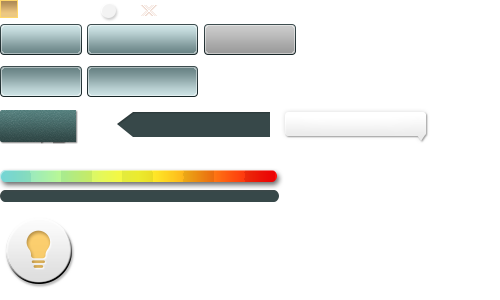
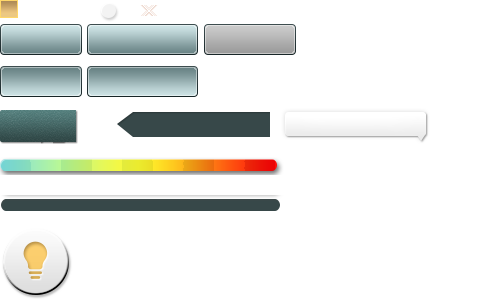
update style

Changed region(s): [[0.0, 0.51, 0.57, 0.72], [0.0, 0.75, 0.15, 1.0]]

diff --git a/frontend/src/css/lottery.less b/frontend/src/css/lottery.less
@@ -19,7 +19,7 @@
 	height: 32px;
 	line-height: 28px;
 	background: url('@{imgPath}/bg/icons.png') no-repeat 0 -23px;
-	font-size: 13px;
+	font-size: 12px;
 	color: #313c3e;
 	text-shadow: 0 1px 2px rgba(255, 255, 255, .25);
 	background: url('@{imgPath}/bg/icons.png') no-repeat;
@@ -46,6 +46,7 @@
 	background-position: -87px -24px;
 	width: 112px;
 	height: 31px;
+	margin: 8px 0 10px;
 }
 .btn-server {
 	display: inline-block;
@@ -55,6 +56,31 @@
 	width: 82px;
 	height: 31px;
 	margin: 10px 0;
+}
+
+/* 左箭头背景 */
+.box-left-arrow {
+	height: 25px;
+	line-height: 25px;
+
+	.box-icon {
+		float: left;
+		background: url('@{imgPath}/bg/icons.png') -117px -112px;
+		width: 16px;
+		height: 25px;
+	}
+	.box-body {
+		float: left;
+		padding: 0 10px 0 5px;
+		.gray-bg();
+	}
+}
+
+/* 深色背景*/
+.gray-bg() {
+	background: #374849;
+	box-shadow:  0px 2px 0px rgba(45, 59, 60, .6) inset;
+	border-bottom: 1px solid rgba(255, 255, 255, .3);
 }
 /*==========================================*/
 .lottery-wrap {
@@ -153,10 +179,11 @@
 				.btn-close {
 					position: absolute;
 					right: 5px;
-					top: px;
+					top: 5px;
 					width: 15px;
 					height: 15px;
 					background: url("@{imgPath}/bg/icons.png") no-repeat -142px -3px;
+					cursor: pointer;
 				}
 			}
 		}
@@ -240,21 +267,51 @@
 			height: 362px;
 		}
 		.collect-box{
-			.collect-table {
-				margin: 0 auto;
-				border-collapse: separate;
-				border-spacing: 8px;
-				*border-collapse: expression('separate', cellSpacing = '8px');
-				td {
-					width: 51px; height: 51px;
+			position: relative;
+
+			.cover {
+				position: absolute;
+				top: 0;
+				left: 0;
+				width: 100%;
+				height: 100%;
+				background: #ffffff;
+				border-radius: 5px;
+				filter:alpha(opacity=50);
+				opacity: 0.5;
+				-moz-opacity:0.5;
+				border-bottom: 1px solid rgba(0, 0, 0, .35);
+				box-shadow: 2px 2px 2px rgba(0, 0, 0, .08), 2px 2px 2px rgba(255, 255, 255, .15) inset;
+			}
+			.collect-list {
+				.gray-bg();
+				position: relative;
+				margin: 0 20px;
+				padding: 10px 0 2px 10px;
+				border-radius: 5px;
+				li {
+					display: inline-block;
+					*display: inline;
+					*zoom: 1;
+
+					width: 50px;
+					height: 50px;
+
+					margin: 0 7px 5px 0;
+
+					background-color:#fff;
 					filter:alpha(opacity=40);
 					opacity: 0.4;
 					-moz-opacity:0.4;
-					background-color:#fff;
 				}
 			}
 			.context-info {
 				padding: 25px 0 0 15px;
+			}
+			.box-left-arrow {
+				position: absolute;
+				top: 20px;
+				right: 20px;
 			}
 		}
 		.active-box {
@@ -291,12 +348,8 @@
 		.lot-flash-wrap {
 			float: left;
 			position: absolute;
-<<<<<<< HEAD
 			top: -234px;
 			left: -15px;
-=======
-			top: -180px;
->>>>>>> 248a0593c498430a73ea462392c88cc46c061ef6
 		}
 
 		.lot-power {
@@ -307,33 +360,81 @@
 				// padding-top: 30px;
 				border-bottom: 1px solid #313c3e;
 			}
-			.power-now {
+			.box-left-arrow {
 				position: absolute;
-				top: -35px;
+				top: -67px;
 				right: 0px;
-				// width: 154px;
-				height: 25px;
-				line-height: 25px;
-				// background: url('@{imgPath}/bg/icons.png') no-repeat -115px -110px;
-				padding-right: 10px;
-				background: #374849;
-				box-shadow:  0px 2px 0px rgba(45, 59, 60, .6) inset;
-				border-bottom: 1px solid rgba(255, 255, 255, .3);
 
-				// text-indent: 25px;
-				color: #87dbdd;
-				text-decoration: underline;
-
+				.box-body {
+					color: #87dbdd;
+					text-decoration: underline;
+				}
 			}
 			.progress-wrap {
-				// margin: 0px 0 20px;
-				// height: 15px;
-				background: red;
+				position: relative;
+				width: 342px;
+				height: 35px;
+				margin-top: 27px;
+				border-radius: 3px;
+				.gray-bg();
+
+				.box-custom {
+					position: absolute;
+					top: -35px;
+					left: 0;
+					width: 142px;
+					height: 32px;
+					background: url('@{imgPath}/bg/icons.png') no-repeat -285px -110px;
+					text-align: center;
+					line-height: 28px;
+
+					color: #ffbf36;
+					text-shadow: 0 1px 2px rgba(0, 0, 0, .25);
+				}
+				.level-box {
+					float: left;
+					padding: 8px 10px;
+					background: url('@{imgPath}/bg/icons.png') no-repeat 2px -109px;
+				}
+				.progress-outter {
+					position: relative;
+					margin-left: 50px;
+					height: 35px;
+					background: url('@{imgPath}/bg/icons.png') no-repeat 2px -186px;
+					.before {
+						position: absolute;
+						top: 9px;
+						left: 12px;
+						z-index: 100;
+					}
+					.after {
+						position: absolute;
+						top: 9px;
+						right: 20px;
+						z-index: 100;
+					}
+				}
+				.progress-inner {
+					position: absolute;
+					left: 50px;
+					top: 0px;
+					height: 35px;
+					width: 100px;
+					background: url('@{imgPath}/bg/icons.png') no-repeat 5px -147px;
+					.btn-pro {
+						position: absolute;
+						top: 7px;
+						right: -10px;
+						width: 18px;
+						height: 18px;
+						background: url('@{imgPath}/bg/icons.png') no-repeat -100px 0px;
+					}
+				}
 			}
 		}
 		.lot-luckyguys {
 			border-bottom: 1px solid #313c3e;
-			height: 117px;
+			height: 120px;
 			.box-context {
 				padding: 0;
 				height: 72px;
@@ -344,10 +445,8 @@
 			height: 148px;
 
 			.lot-luckynow-list {
-				background: #374849;
 				padding: 8px 10px 0;
-				box-shadow:  0px 2px 0px rgba(45, 59, 60, .6) inset;
-				border-bottom: 1px solid rgba(255, 255, 255, .3);
+				.gray-bg();
 			}
 			.lot-luckynow-item {
 				float: left;
